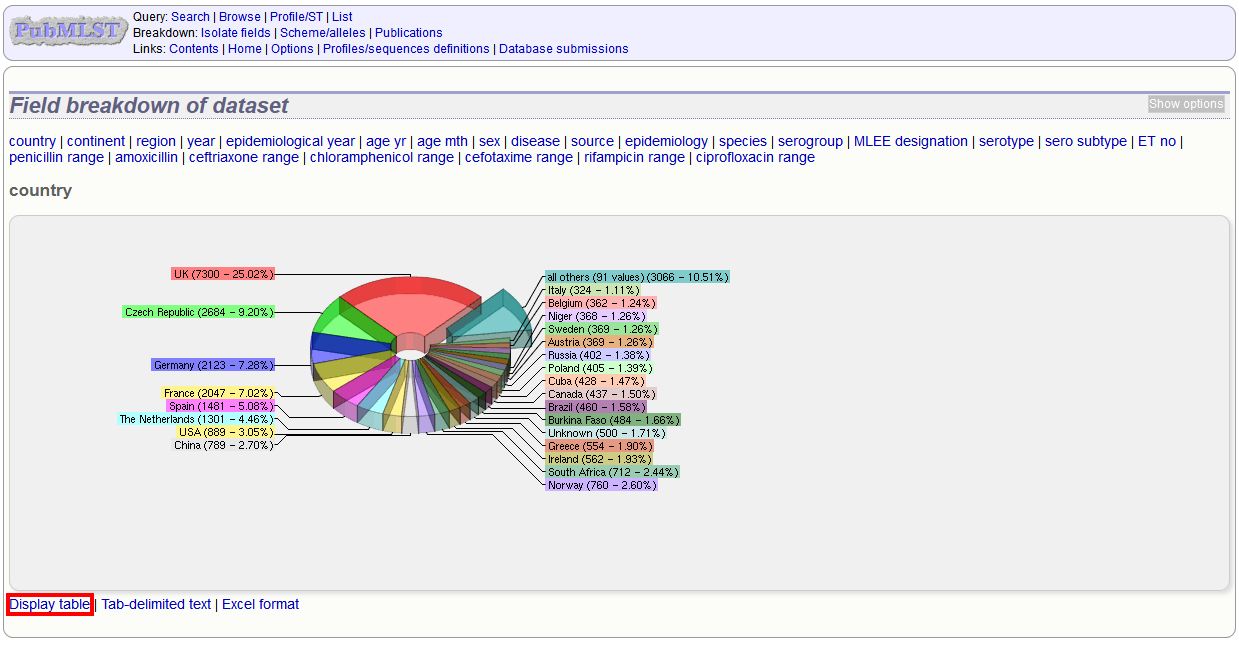
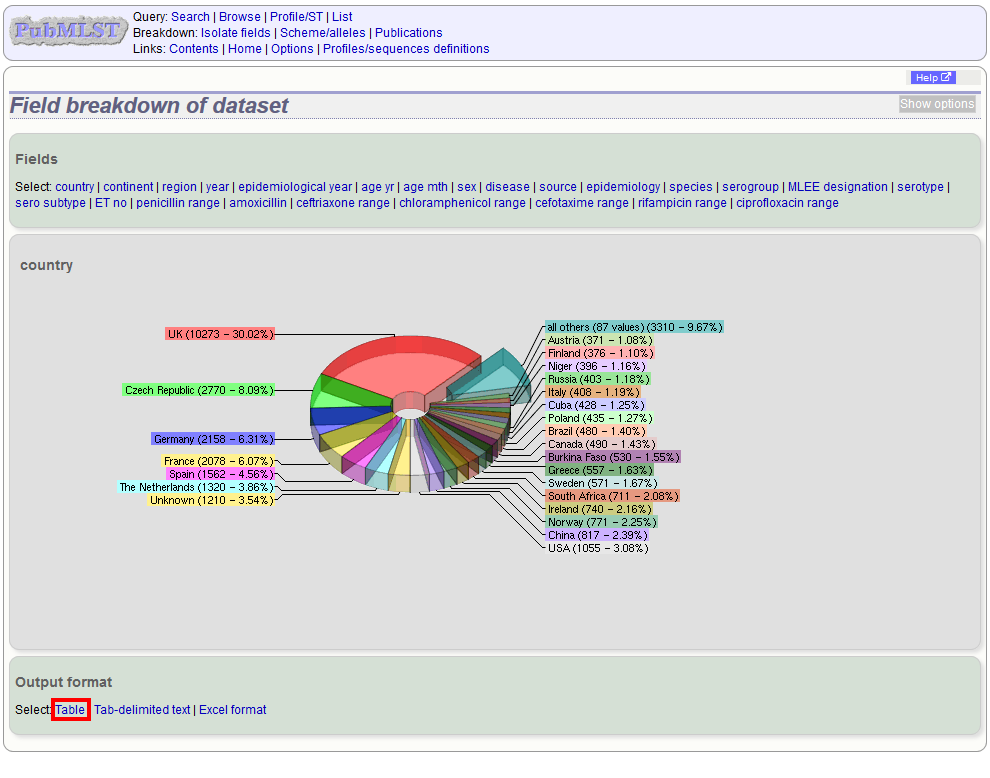
New screenshots for FieldBreakdown plugin.

diff --git a/data_analysis.rst b/data_analysis.rst
@@ -128,7 +128,7 @@ at the top.
 .. image:: /images/data_analysis/field_breakdown3.png
 
 The values used to generate the chart can be displayed or extracted by clicking
-the 'Display table' link at the bottom of the page. 
+the 'Table' link at the bottom of the page. 
 
 .. image:: /images/data_analysis/field_breakdown4.png
 
